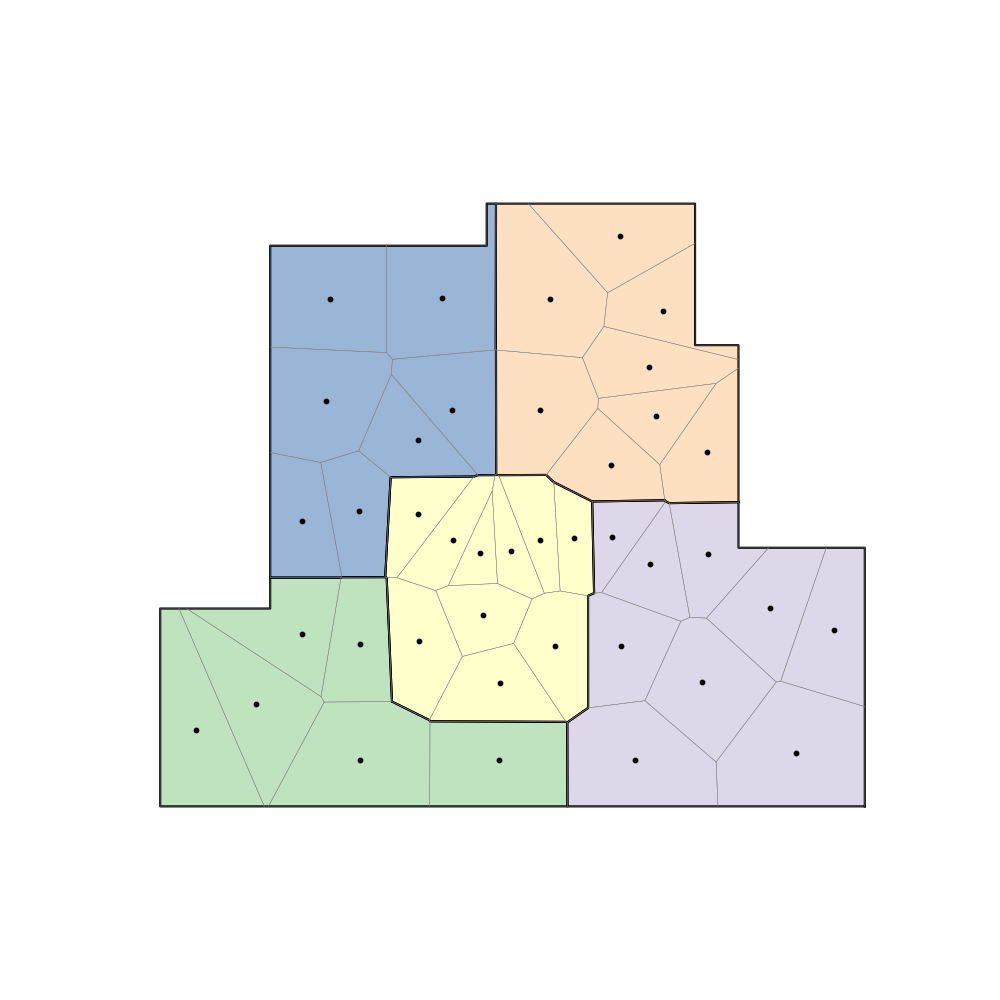
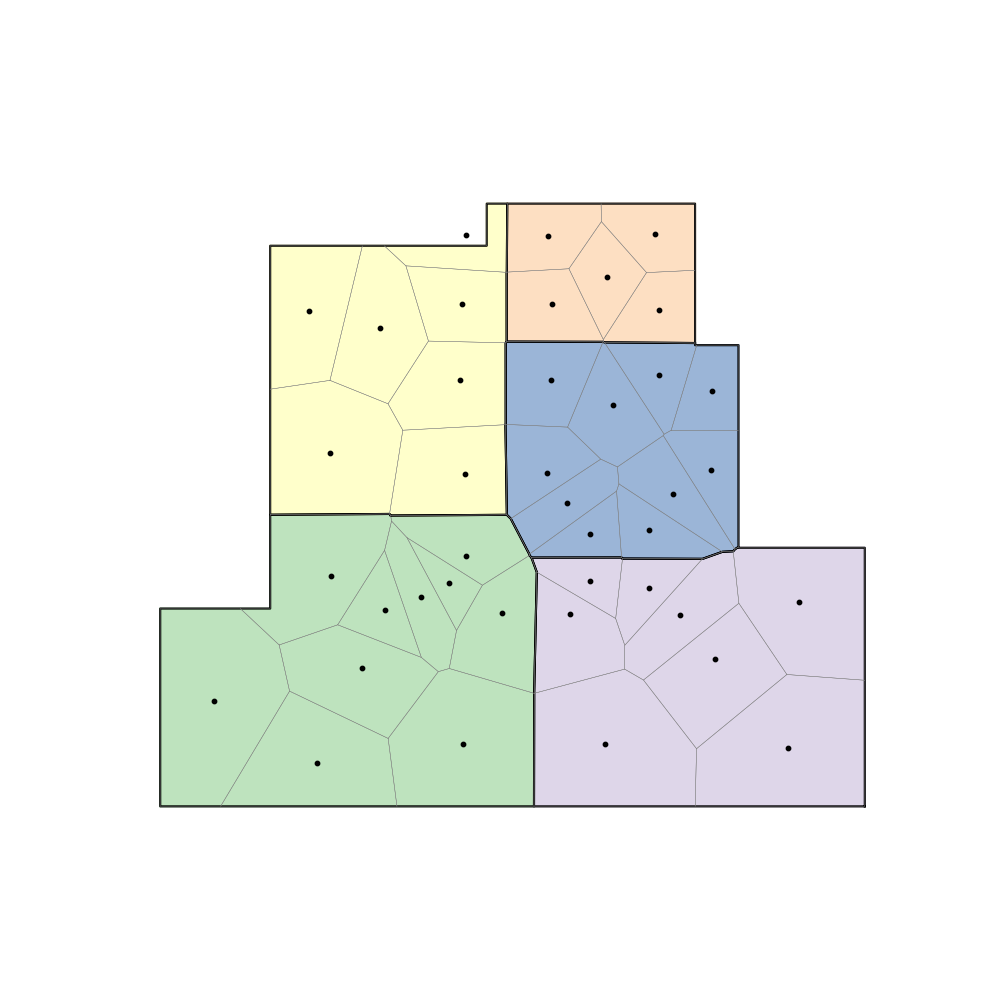
Floor Plan generation with Voronoi Diagram

Changed region(s): [[0.248, 0.186, 0.744, 0.806], [0.31, 0.682, 0.341, 0.713]]

diff --git a/testbed/_posts/2024-11-28-floor-plan-generation-with-voronoi-diagram.html b/testbed/_posts/2024-11-28-floor-plan-generation-with-voronoi-diagram.html
@@ -539,44 +539,44 @@ Therefore, I used Python's built-in multiprocessing module to improve the perfor
 
     <figure style="display: flex;">
         <img src="/img/floor-plan-generation-with-voronoi-diagram-13.png" width="23%">
-        <img src="/img/floor-plan-generation-with-voronoi-diagram-14.png" width="23%">
+        <img src="/img/floor-plan-generation-with-voronoi-diagram-15.png" width="23%">
         <img src="/img/floor-plan-generation-with-voronoi-diagram-12.png" width="23%">
         <img src="/img/floor-plan-generation-with-voronoi-diagram-11.png" width="23%">
     </figure>
 
     <figure style="display: flex; margin-top: -2em;">
         <img src="/img/floor-plan-generation-with-voronoi-diagram-16.png" width="23%">
-        <img src="/img/floor-plan-generation-with-voronoi-diagram-15.png" width="23%">
-        <img src="/img/floor-plan-generation-with-voronoi-diagram-10.png" width="23%">
-        <img src="/img/floor-plan-generation-with-voronoi-diagram-10.png" width="23%">
+        <img src="/img/floor-plan-generation-with-voronoi-diagram-24.png" width="23%">
+        <img src="/img/floor-plan-generation-with-voronoi-diagram-25.png" width="23%">
+        <img src="/img/floor-plan-generation-with-voronoi-diagram-30.png" width="23%">
     </figure>
 
     <figure style="display: flex; margin-top: -2em;">
         <img src="/img/floor-plan-generation-with-voronoi-diagram-10.png" width="23%">
-        <img src="/img/floor-plan-generation-with-voronoi-diagram-10.png" width="23%">
-        <img src="/img/floor-plan-generation-with-voronoi-diagram-10.png" width="23%">
-        <img src="/img/floor-plan-generation-with-voronoi-diagram-10.png" width="23%">
+        <img src="/img/floor-plan-generation-with-voronoi-diagram-19.png" width="23%">
+        <img src="/img/floor-plan-generation-with-voronoi-diagram-26.png" width="23%">
+        <img src="/img/floor-plan-generation-with-voronoi-diagram-31.png" width="23%">
     </figure>
 
     <figure style="display: flex; margin-top: -2em;">
         <img src="/img/floor-plan-generation-with-voronoi-diagram-20.png" width="23%">
-        <img src="/img/floor-plan-generation-with-voronoi-diagram-10.png" width="23%">
-        <img src="/img/floor-plan-generation-with-voronoi-diagram-10.png" width="23%">
-        <img src="/img/floor-plan-generation-with-voronoi-diagram-10.png" width="23%">
+        <img src="/img/floor-plan-generation-with-voronoi-diagram-21.png" width="23%">
+        <img src="/img/floor-plan-generation-with-voronoi-diagram-27.png" width="23%">
+        <img src="/img/floor-plan-generation-with-voronoi-diagram-23.png" width="23%">
     </figure>
 
     <figure style="display: flex; margin-top: -2em;">
-        <img src="/img/floor-plan-generation-with-voronoi-diagram-10.png" width="23%">
-        <img src="/img/floor-plan-generation-with-voronoi-diagram-10.png" width="23%">
-        <img src="/img/floor-plan-generation-with-voronoi-diagram-10.png" width="23%">
-        <img src="/img/floor-plan-generation-with-voronoi-diagram-10.png" width="23%">
+        <img src="/img/floor-plan-generation-with-voronoi-diagram-17.png" width="23%">
+        <img src="/img/floor-plan-generation-with-voronoi-diagram-22.png" width="23%">
+        <img src="/img/floor-plan-generation-with-voronoi-diagram-28.png" width="23%">
+        <img src="/img/floor-plan-generation-with-voronoi-diagram-33.png" width="23%">
     </figure>
 
     <figure style="display: flex;">
-        <img src="/img/floor-plan-generation-with-voronoi-diagram-10.png" width="23%">
-        <img src="/img/floor-plan-generation-with-voronoi-diagram-10.png" width="23%">
-        <img src="/img/floor-plan-generation-with-voronoi-diagram-10.png" width="23%">
-        <img src="/img/floor-plan-generation-with-voronoi-diagram-10.png" width="23%">
+        <img src="/img/floor-plan-generation-with-voronoi-diagram-18.png" width="23%">
+        <img src="/img/floor-plan-generation-with-voronoi-diagram-14.png" width="23%">
+        <img src="/img/floor-plan-generation-with-voronoi-diagram-29.png" width="23%">
+        <img src="/img/floor-plan-generation-with-voronoi-diagram-32.png" width="23%">
     </figure>
 
 
@@ -597,6 +597,9 @@ Therefore, I used Python's built-in multiprocessing module to improve the perfor
         </li>
         <li>
             <b>Handle deadspaces</b>: Set the loss function for deadspace \(\mathcal{L}_{\text{deadspace}}\) to exclude infeasible plans.
+        </li>
+        <li>
+            <b>Following boundary axis</b>: Align walls to follow the axis of a given boundary instead of global X, Y (Replacing \(\mathcal{L}_{\text{wall}}\)). 
         </li>
     </ul>
 </div>
